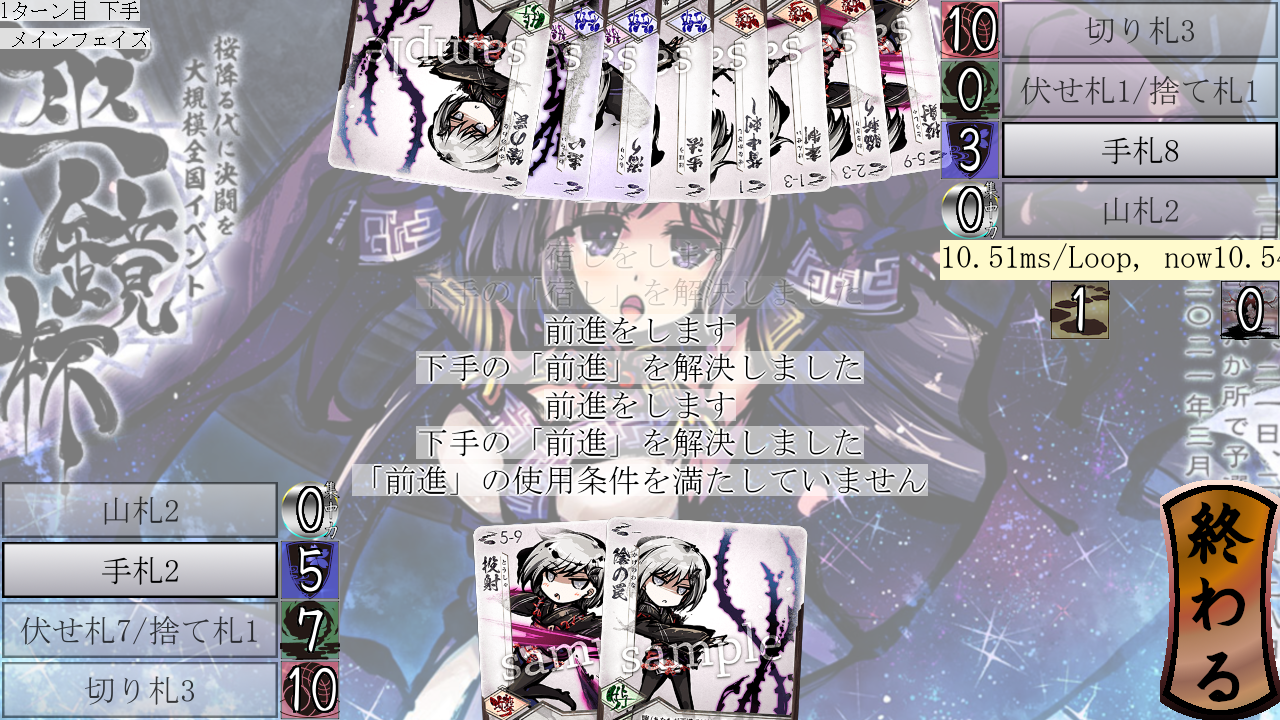
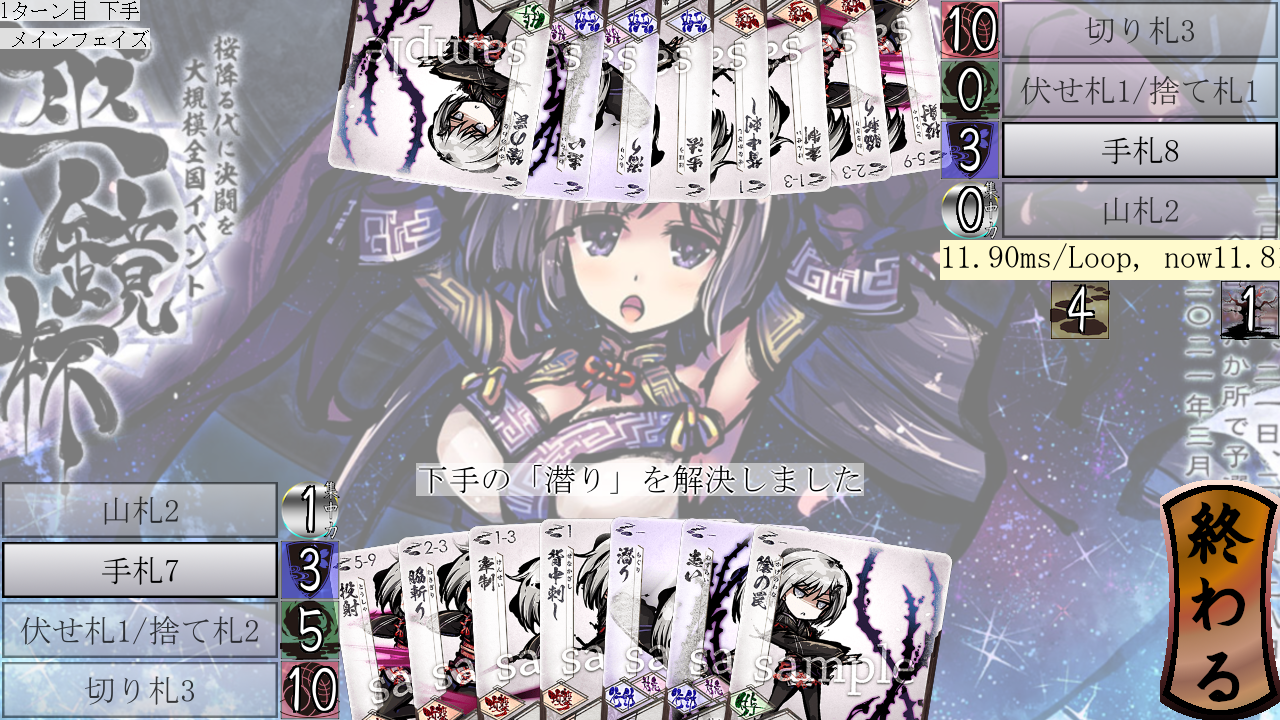
J333:とうざなんとか

diff --git a/mod/ol/others_basic_action.py b/mod/ol/others_basic_action.py
@@ -11,17 +11,30 @@ from mod.ol.undo_mouse import make_undo_youso
 from mod.ol.proxy_taba_factory import ProxyTabaFactory
 from mod.card import Card
 from mod.ol.mc_layer_factory import MonoChoiceLayer
+from mod.ol.kaiketu_layer_facotry import kaiketu_layer_factory
+from mod.ol.pop_stat import PopStat
 
 _cards: list[Card] = [zensin_card, ridatu_card, koutai_card, matoi_card, yadosi_card]
 
 def _mouseup(huda: Huda, mcl: MonoChoiceLayer) -> None:
-    huda.card.kaiketu(delivery=mcl.delivery, hoyuusya=mcl.hoyuusya)
+    moderator.append(KihondousaKaiketu(huda=huda))
+    # huda.card.kaiketu(delivery=mcl.delivery, hoyuusya=mcl.hoyuusya)
+    # mcl.delivery.send_huda_to_ryouiki(huda=mcl.source_huda, is_mine=True, taba_code=TC_HUSEHUDA)
+    # moderator.pop()
+
+def _moderate(mcl: MonoChoiceLayer, stat: PopStat) -> None:
     mcl.delivery.send_huda_to_ryouiki(huda=mcl.source_huda, is_mine=True, taba_code=TC_HUSEHUDA)
     moderator.pop()
 
 def others_basic_action_layer(delivery: Delivery, hoyuusya: int, huda: Any | None=None) -> MonoChoiceLayer:
-    mcl = MonoChoiceLayer(name="基本動作の選択", delivery=delivery, hoyuusya=hoyuusya, huda=huda)
+    mcl = MonoChoiceLayer(name="基本動作の選択", delivery=delivery, hoyuusya=hoyuusya, huda=huda,
+                          moderate=_moderate)
     factory = ProxyTabaFactory(inject_kwargs={"mouseup": partial(_mouseup, mcl=mcl)})
     mcl.taba = factory.maid_by_cards(cards=_cards, hoyuusya=hoyuusya)
     mcl.other_hover = make_undo_youso(text="OthersBasicAction")
     return mcl
+
+def _dih(delivery: Delivery, hoyuusya: int, huda: Huda) -> None:
+    huda.card.kaiketu(delivery, hoyuusya)
+
+KihondousaKaiketu = kaiketu_layer_factory(name="の基本動作", dih=_dih)

diff --git a/mod/ol/choice.py b/mod/ol/choice.py
@@ -9,15 +9,29 @@ from mod.moderator import moderator
 from mod.delivery import Delivery
 from mod.ol.proxy_taba_factory import ProxyTabaFactory
 from mod.ol.mc_layer_factory import MonoChoiceLayer
+from mod.ol.kaiketu_layer_facotry import kaiketu_layer_factory
+from mod.ol.pop_stat import PopStat
 
 def _mouseup(huda: Huda, mcl: MonoChoiceLayer) -> None:
-    huda.card.kaiketu(delivery=mcl.delivery, hoyuusya=mcl.hoyuusya)
+    moderator.append(ChoiceKaiketu(huda=huda))
+    # huda.card.kaiketu(delivery=mcl.delivery, hoyuusya=mcl.hoyuusya)
+    # if mcl.source_huda:
+    #     mcl.delivery.send_huda_to_ryouiki(huda=mcl.source_huda, is_mine=True, taba_code=TC_SUTEHUDA)
+    # moderator.pop()
+
+def _moderate(mcl: MonoChoiceLayer, stat: PopStat) -> None:
     if mcl.source_huda:
         mcl.delivery.send_huda_to_ryouiki(huda=mcl.source_huda, is_mine=True, taba_code=TC_SUTEHUDA)
     moderator.pop()
 
 def choice_layer(cards: list[Card], delivery: Delivery, hoyuusya: int, huda: Any | None=None) -> MonoChoiceLayer:
-    mcl = MonoChoiceLayer(name="効果の選択", delivery=delivery, hoyuusya=hoyuusya, huda=huda)
+    mcl = MonoChoiceLayer(name="効果の選択", delivery=delivery, hoyuusya=hoyuusya, huda=huda,
+                          moderate=_moderate)
     factory = ProxyTabaFactory(inject_kwargs={"mouseup": partial(_mouseup, mcl=mcl)})
     mcl.taba = factory.maid_by_cards(cards=cards, hoyuusya=hoyuusya)
     return mcl
+
+def _dih(delivery: Delivery, hoyuusya: int, huda: Huda) -> None:
+    huda.card.kaiketu(delivery, hoyuusya)
+
+ChoiceKaiketu = kaiketu_layer_factory(name="を選択", dih=_dih)

diff --git a/mod/ol/mc_layer_factory.py b/mod/ol/mc_layer_factory.py
@@ -1,5 +1,5 @@
 #                 20                  40                  60                 79
-from typing import Any
+from typing import Callable, Any
 
 from mod.const import screen, IMG_GRAY_LAYER, compatible_with, HANTE
 from mod.huda import Huda
@@ -10,8 +10,9 @@ from mod.taba import Taba
 
 class MonoChoiceLayer():
     def __init__(self, name: str="", taba: Taba=Taba(), delivery: Delivery=
-                 duck_delivery, hoyuusya: int=HANTE, huda: Any | None=None
-                 ) -> None:
+                 duck_delivery, hoyuusya: int=HANTE, huda: Any | None=None,
+                 moderate: Callable[['MonoChoiceLayer', PopStat], None]=
+                 lambda mcl, stat: None) -> None:
         self.name = name
         self.taba = taba
         self.delivery = delivery
@@ -19,6 +20,7 @@ class MonoChoiceLayer():
         self.source_huda = huda if isinstance(huda, Huda) else None
         self.inject_func = delivery.inject_view
         self.other_hover = view_youso
+        self.moderate_func = moderate
 
     def elapse(self) -> None:
         screen.blit(source=IMG_GRAY_LAYER, dest=[0, 0])
@@ -34,7 +36,7 @@ class MonoChoiceLayer():
         return PopStat()
 
     def moderate(self, stat: PopStat) -> None:
-        ...
+        self.moderate_func(self, stat)
 
 # def mc_layer_factory(name: str, code: int, dih: Callable[[Delivery, int, Huda], None]) -> type[MonoChoiceLayer]:
 #     class ConcreteMnonoChoiceLayer(MonoChoiceLayer):

diff --git a/koukas/n_1.py b/koukas/n_1.py
@@ -27,8 +27,8 @@ def _kouka_n_6_1(delivery: Delivery, hoyuusya: int) -> None:
 def _kouka_n_6_2(delivery: Delivery, hoyuusya: int) -> None:
     delivery.send_ouka_to_ryouiki(hoyuusya=hoyuusya, from_mine=False, from_code=UC_DUST, to_mine=False, to_code=UC_MAAI, kazu=1)
 
-tkn61 = TempKoudou(name="潜り", cond=auto_di, kouka=_kouka_n_6_1, todo=[[False, UC_MAAI, False, UC_DUST, 1]])
-tkn62 = TempKoudou(name="離脱", cond=auto_di, kouka=_kouka_n_6_2, todo=[[False, UC_DUST, False, UC_MAAI, 1]])
+tkn61 = TempKoudou(name="歩法：潜り", cond=auto_di, kouka=_kouka_n_6_1, todo=[[False, UC_MAAI, False, UC_DUST, 1]])
+tkn62 = TempKoudou(name="歩法：離脱", cond=auto_di, kouka=_kouka_n_6_2, todo=[[False, UC_DUST, False, UC_MAAI, 1]])
 
 def _kouka_n_6(delivery: Delivery, hoyuusya: int) -> None:
     delivery.send_ouka_to_ryouiki(hoyuusya=hoyuusya, from_mine=False, from_code=UC_ZYOGAI, to_mine=True, to_code=UC_SYUUTYUU, kazu=1)

diff --git a/mod/ol/kaiketu_layer_facotry.py b/mod/ol/kaiketu_layer_facotry.py
@@ -1,6 +1,7 @@
 #                 20                  40                  60                 79
 from typing import Any, Callable
 
+from mod.const import POP_OK
 from mod.huda import Huda
 from mod.moderator import moderator
 from mod.ol.pop_stat import PopStat
@@ -34,7 +35,8 @@ class Kaiketu():
     def moderate(self, stat: PopStat) -> None:
         moderator.pop()
 
-def kaiketu_layer_factory(name: str, code: int, dih: Callable[[Delivery, int, Huda], None]) -> type[Kaiketu]:
+def kaiketu_layer_factory(name: str, code: int=POP_OK, dih: Callable[
+    [Delivery, int, Huda], None]=lambda delivery, hoyuusya, huda: None) -> type[Kaiketu]:
     class ConcreteKaiketu(Kaiketu):
         inject_name = name
         inject_code = code
